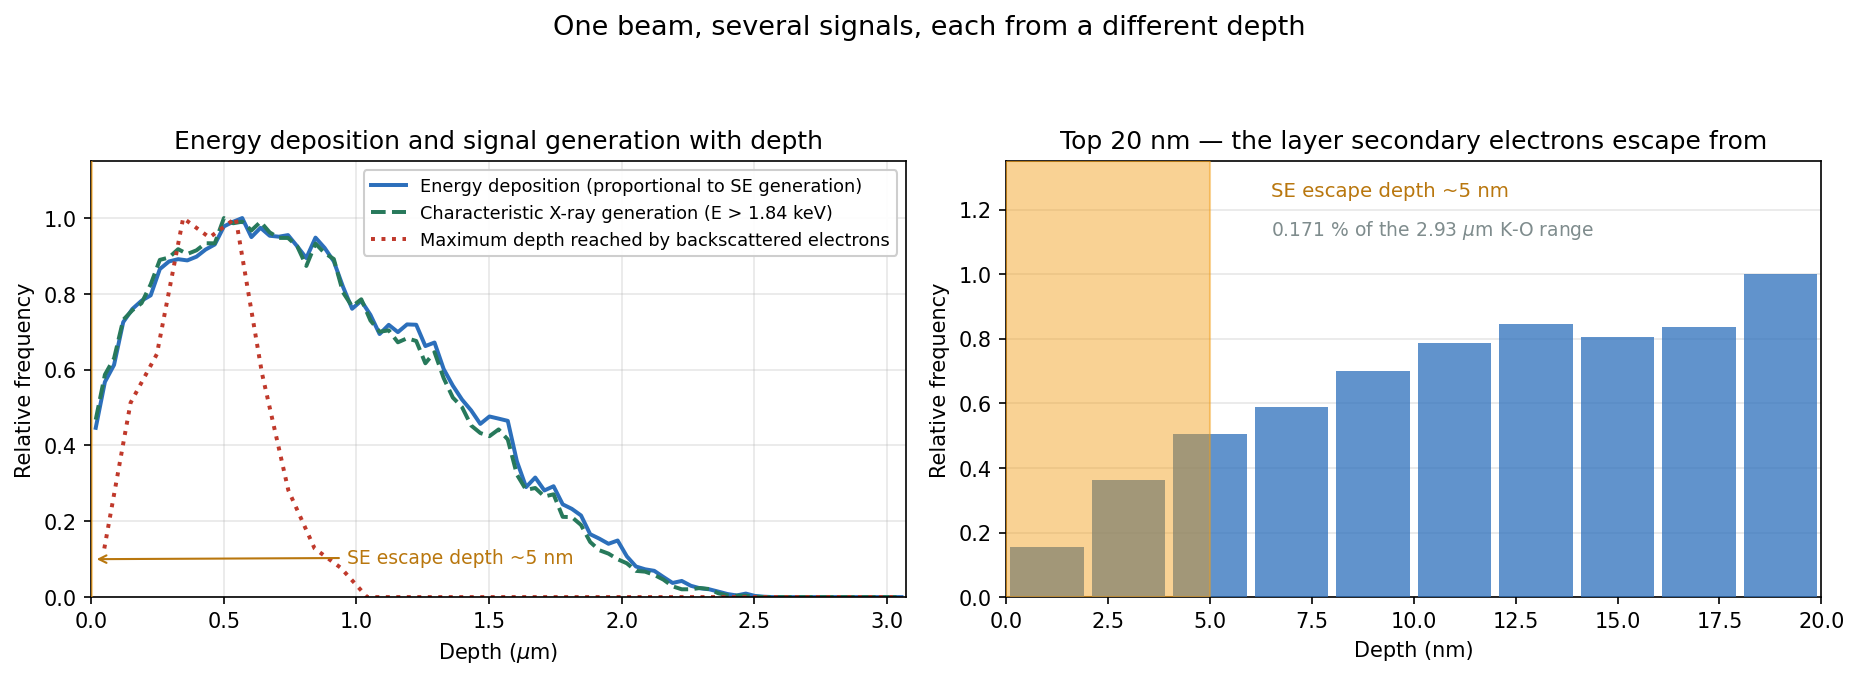
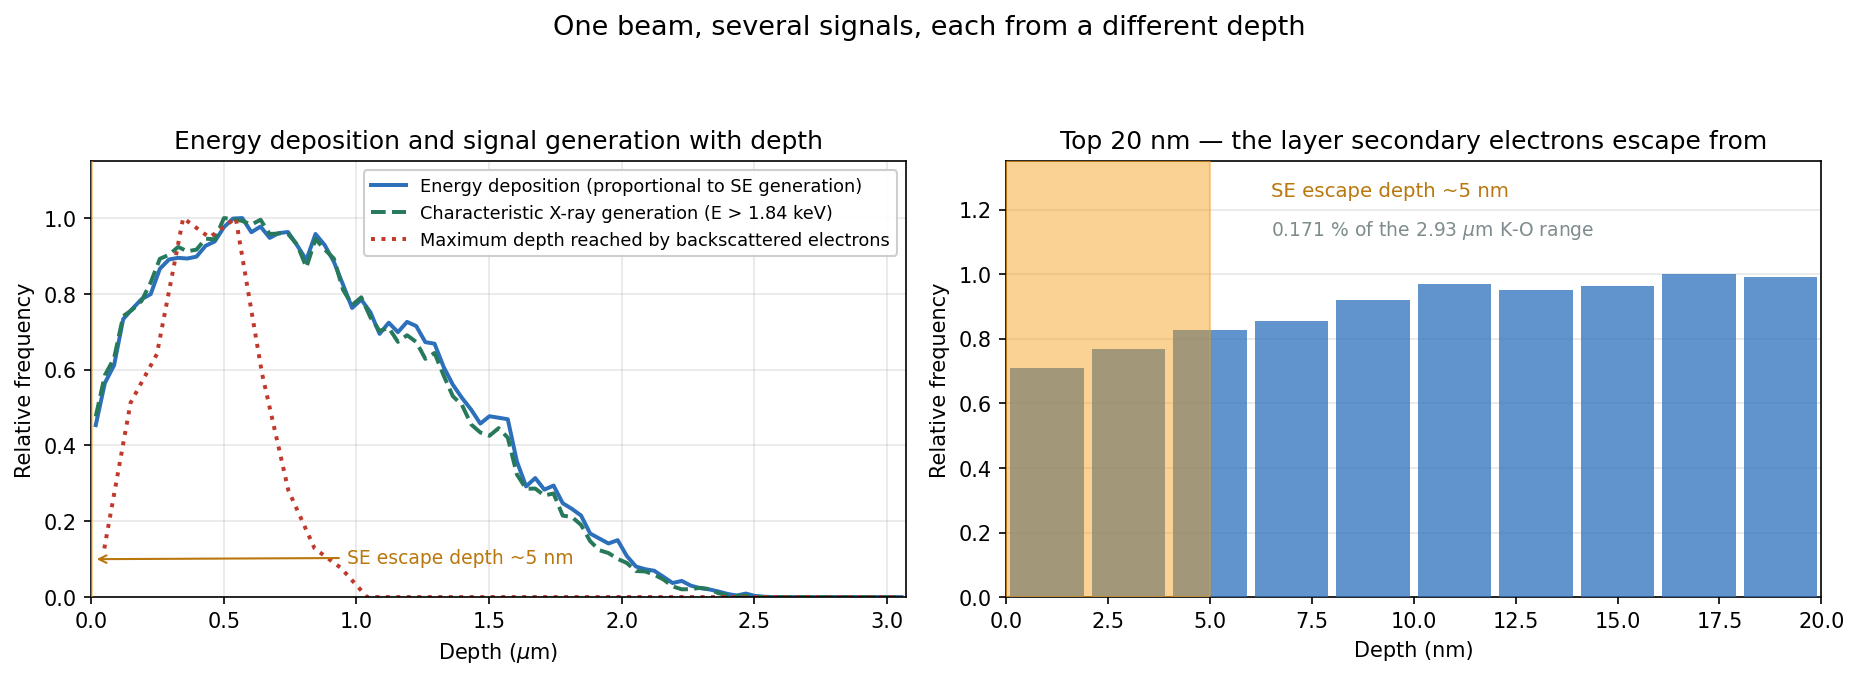
fix(post): electron-microscopy-beam-specimen-interaction — 단면적 스케일링·원자번호 효과·SE1/SE2·인용 등 7건 정정
1. 탄성 단면적 "Z²/E²에 비례": 큰 각 산란에만 맞는다. 차폐 때문에 총단면적은 대략 Z^{4/3}/E다
   (미분단면적 수치 적분 dlnσ/dlnZ 1.32–1.39, dlnσ/dlnE ≈ −1; Goldstein 3판 식 3.1, Joy 1991).
   W/Si 원자당 비는 약 10배, 90° 넘는 산란만 27.7배. 7편과 같은 핵심 문구로 고쳤다.
2. 원자번호를 올리면 부피가 작아진다: 크기 축소의 대부분은 밀도(8.3배) 때문이다. 텅스텐 밀도를 실리콘 값으로
   바꾼 대조 MC에서 깊이 비가 밀도비와 같았고, 같은 밀도에서 W는 16 % 얕을 뿐이다. 원자번호는 주로 모양을 바꾼다.
3. "좁은 기둥의 이차전자만 탈출": SE2도 탈출한다(Seiler 1984, Reimer 1984). SE1이 분해능, SE2는 배경으로 구분.
4. Carleton SERC 링크에는 탈출 깊이 수치가 없다. 주석을 "정성적 개요"로, 탈출 깊이 출처로 Seiler 1984를 더했다.
5. 원자핵은 전자보다 "수천 배"가 아니라 수만~수십만 배 무겁다(CODATA 2022: Si 핵 5.1×10⁴, W 3.35×10⁵배).
6. 고Z 어긋남의 원인을 "점전하"로 든 것 → 첫째 보른 근사와 차폐 경험 상수의 한계(PENELOPE-2018 3.1절).
7. 그림2: 한 걸음의 손실을 중점 한 곳에 쌓아 표면층이 비어 보였다(0.15). 구간 길이를 따라 나눠 쌓게 고쳤다(0.71).
   monte_carlo.py가 구간 양 끝 깊이를 돌려주고 generate_figures.py가 나눠 쌓는다. 본문 수치는 그대로다.

바뀐 그림: fig2-depth-distribution.png (한·영). 독립 검증자 3명.
근거: _references/electron-microscopy-beam-specimen-interaction/factcheck-20261004.md

diff --git a/_code/electron-microscopy-beam-specimen-interaction/generate_figures.py b/_code/electron-microscopy-beam-specimen-interaction/generate_figures.py
@@ -144,26 +144,49 @@ def fig1_interaction_volume(L, cache):
     return fig
 
 
+def _segment_histogram(z0, z1, w, edges):
+    """구간 [z0, z1] 에서 잃은 에너지 w 를 구간 길이를 따라 고르게 나눠 쌓는다.
+
+    중점 한 곳에 몰아 쌓으면 평균자유행로(15 keV Si 에서 약 20 nm)보다 얕은 층이
+    비어 보이는 인공물이 생긴다. 각 경계 e 아래에 놓인 몫 F(e) 를 누적해 차분한다.
+    """
+    lo, hi = np.minimum(z0, z1), np.maximum(z0, z1)
+    span = hi - lo
+    flat = span <= 0
+    safe = np.where(flat, 1.0, span)
+    cum = np.empty(len(edges))
+    for k, e in enumerate(edges):
+        frac = np.where(flat, (lo < e).astype(float), np.clip((e - lo) / safe, 0.0, 1.0))
+        cum[k] = np.sum(w * frac)
+    return np.diff(cum), np.asarray(edges)
+
+
 def fig2_depth_distribution(L, cache):
     res = cache["fig2"]
     r_ko_um = mc.kanaya_okayama_range(FIG2_MAT, FIG2_E0) * 1e4
 
-    dep_z = np.concatenate([r["depths"] for r in res]) * 1e4      # µm
+    z0 = np.concatenate([r["z_start"] for r in res]) * 1e4        # µm
+    z1 = np.concatenate([r["z_end"] for r in res]) * 1e4
     dep_w = np.concatenate([r["losses"] for r in res])
     ene = np.concatenate([r["energies"] for r in res])
-    xray = dep_z[ene > SI_K_EDGE]
-    xray_w = dep_w[ene > SI_K_EDGE]
+    xr = ene > SI_K_EDGE
     bse_depth = np.array([r["max_depth"] for r in res if r["backscattered"]]) * 1e4
 
     fig, (ax, ax2) = plt.subplots(1, 2, figsize=(12.5, 4.6))
 
     fine = np.linspace(0, r_ko_um * 1.05, 90)
     coarse = np.linspace(0, r_ko_um * 1.05, 32)     # 표본이 적은 후방산란용
-    for data, weights, color, key, ls, bins in [
-            (dep_z, dep_w, BLUE, "f2dep", "-", fine),
-            (xray, xray_w, GREEN, "f2xray", "--", fine),
-            (bse_depth, None, ACCENT, "f2bse", ":", coarse)]:
-        h, edges = np.histogram(data, bins=bins, weights=weights)
+    # 에너지 침착과 X선은 구간 길이를 따라 나눠 쌓고, 후방산란 최대 깊이는 점 자료다.
+    for kind, color, key, ls, bins in [
+            ("dep", BLUE, "f2dep", "-", fine),
+            ("xray", GREEN, "f2xray", "--", fine),
+            ("bse", ACCENT, "f2bse", ":", coarse)]:
+        if kind == "dep":
+            h, edges = _segment_histogram(z0, z1, dep_w, bins)
+        elif kind == "xray":
+            h, edges = _segment_histogram(z0[xr], z1[xr], dep_w[xr], bins)
+        else:
+            h, edges = np.histogram(bse_depth, bins=bins)
         if h.max() > 0:
             h = h / h.max()
         ax.plot(0.5 * (edges[1:] + edges[:-1]), h, color=color, lw=1.9, ls=ls,
@@ -185,7 +208,7 @@ def fig2_depth_distribution(L, cache):
 
     # 오른쪽: 표면 20 nm 확대
     bins2 = np.linspace(0, 20e-3, 11)
-    h, edges = np.histogram(dep_z, bins=bins2, weights=dep_w)
+    h, edges = _segment_histogram(z0, z1, dep_w, bins2)
     centers = 0.5 * (edges[1:] + edges[:-1]) * 1e3            # nm
     ax2.bar(centers, h / h.max(), width=(centers[1] - centers[0]) * 0.9,
             color=BLUE, alpha=0.75, zorder=3)

diff --git a/_code/electron-microscopy-beam-specimen-interaction/monte_carlo.py b/_code/electron-microscopy-beam-specimen-interaction/monte_carlo.py
@@ -108,6 +108,9 @@ def trace_electron(mat, e0_kev, rng, keep_path=True):
       path         (n,3) 궤적 [cm] — keep_path 가 False 면 None
       backscattered 표면으로 되돌아 나왔는가
       depths/losses 구간 중점의 깊이 [cm] 와 그 구간에서 잃은 에너지 [keV]
+      z_start/z_end 각 구간 양 끝의 깊이 [cm]. 손실을 구간 길이를 따라 나눠
+                   쌓을 때 쓴다 (중점 한 곳에 몰면 평균자유행로보다 얕은 층이
+                   비어 보인다)
       energies     각 구간에 들어갈 때의 전자 에너지 [keV]
       exit_depth   후방산란 직전 마지막 산란의 깊이 [cm], 아니면 None
       max_depth    도달한 최대 깊이 [cm]
@@ -117,6 +120,7 @@ def trace_electron(mat, e0_kev, rng, keep_path=True):
     e = float(e0_kev)
     path = [pos.copy()]
     depths, losses, energies = [], [], []
+    z_start, z_end = [], []
     backscattered = False
     last_pos = pos.copy()
 
@@ -133,9 +137,11 @@ def trace_electron(mat, e0_kev, rng, keep_path=True):
                 path.append(pos + direction * t)
             break
 
-        # 이동 구간에서 잃은 에너지를 구간 중점의 깊이에 쌓는다.
+        # 이동 구간에서 잃은 에너지와 구간의 깊이(중점, 양 끝)를 기록한다.
         loss = min(-stopping_power(mat, e) * step, e - E_MIN * 0.5)
         depths.append(0.5 * (pos[2] + new_pos[2]))
+        z_start.append(pos[2])
+        z_end.append(new_pos[2])
         losses.append(max(loss, 0.0))
         energies.append(e)
         e -= loss
@@ -159,6 +165,8 @@ def trace_electron(mat, e0_kev, rng, keep_path=True):
         "depths": np.array(depths),
         "losses": np.array(losses),
         "energies": np.array(energies),
+        "z_start": np.array(z_start),
+        "z_end": np.array(z_end),
         "exit_depth": float(last_pos[2]) if backscattered else None,
         "max_depth": float(np.max(all_z)) if len(all_z) else 0.0,
     }

diff --git a/_posts/2026-10-08-electron-microscopy-beam-specimen-interaction-en.md b/_posts/2026-10-08-electron-microscopy-beam-specimen-interaction-en.md
@@ -21,7 +21,7 @@ Yet scanning electron micrographs do resolve structures at the nanometre scale. 
 
 A specimen contains nuclei and orbital electrons. The incident electron interacts with both, but the outcomes differ.
 
-Collisions with a nucleus are elastic. A nucleus outweighs an electron by thousands, so the electron loses almost no energy and simply changes direction, much as a billiard ball rebounds off a cushion. This scattering spreads electrons sideways and, applied often enough, turns them around entirely.
+Collisions with a nucleus are elastic. A nucleus outweighs an electron by tens to hundreds of thousands of times (about 50,000 for silicon), so the electron loses almost no energy and simply changes direction, much as a billiard ball rebounds off a cushion. This scattering spreads electrons sideways and, applied often enough, turns them around entirely.
 
 Collisions with orbital electrons are inelastic. The masses match, so energy transfers readily while the direction barely changes. The transferred energy generates secondary electrons inside the specimen, and knocking out an inner-shell electron produces a characteristic X-ray as the vacancy fills.
 
@@ -35,7 +35,7 @@ $$ \sigma \;\propto\; \frac{Z^2}{E^2} \cdot \frac{1}{\alpha_s(1+\alpha_s)}, \qqu
 
 $Z$ is the atomic number and $E$ the electron energy in keV. The screening parameter $\alpha_s$ measures how far orbital electrons shield the nuclear charge. Nearly every conclusion in this post sits in the first two factors.
 
-The $Z^2$ in the numerator says heavier elements deflect far more often and far more sharply. Tungsten ($Z=74$) exceeds silicon ($Z=14$) by a factor of 28 in $Z^2$. The $E^2$ in the denominator says slower electrons deflect more readily, so lowering the accelerating voltage costs an electron its direction before it penetrates far.
+The $Z^2$ in the numerator says heavier elements deflect far more sharply. The cross section for large-angle scattering scales as $Z^2/E^2$, but because of screening the total cross section scales roughly as $Z^{4/3}/E$. For large-angle deflection alone, tungsten ($Z=74$) exceeds silicon ($Z=14$) by a factor of 28 in $Z^2$ (27.7 counting only deflections beyond 90°). But $\alpha_s$ itself carries $Z^{0.67}/E$, so in this energy range, where $\alpha_s \ll 1$, part of the leading factor cancels; per atom, tungsten scatters about ten times as often as silicon. The $E^2$ in the denominator says slower electrons deflect more readily, so lowering the accelerating voltage costs an electron its direction before it penetrates far.
 
 The cross section gives a mean free path. With $N$ atoms per unit volume,
 
@@ -73,7 +73,7 @@ The four panels display the two factors from section 2 directly.
 
 Raising the accelerating voltage from 5 kV to 30 kV (left to right) inflates the whole volume. In silicon the penetration depth grows from 0.47 µm to 9.31 µm, a factor of 20. Higher energy means a smaller cross section, less deflection, and more energy to spend before stopping.
 
-Raising the atomic number (top to bottom) shrinks the volume and reshapes it. At 30 kV silicon reaches 9.31 µm against 1.68 µm for tungsten, a fifth as far. The shape matters more. Silicon's volume is a teardrop that swells sideways below the surface, while tungsten's is closer to a hemisphere pressed against it. In silicon an electron travels some distance before losing its direction; in tungsten it deflects sharply on entry. That is the $Z^2$ at work.
+Raising the atomic number (top to bottom) shrinks the volume and reshapes it. At 30 kV silicon reaches 9.31 µm against 1.68 µm for tungsten, a fifth as far. Most of that difference, though, comes from density (2.33 against 19.25 g/cm³, a factor of 8.3). Density enters the mean free path and the stopping power alike and so shrinks every length as $1/\rho$; give tungsten silicon's density and its maximum depth is only 16 % shallower than silicon's. What atomic number itself changes is the shape more than the size. Silicon's volume is a teardrop that swells sideways below the surface, while tungsten's is closer to a hemisphere pressed against it. In silicon an electron travels some distance before losing its direction; in tungsten it deflects sharply on entry. That is the $Z^2$ at work.
 
 The dashed semicircle marks the Kanaya-Okayama penetration depth.
 
@@ -100,7 +100,7 @@ The orange band marks the escape depth of secondary electrons. Their energy is v
 
 One more signal is missing from Figure 2: the Auger electron. When an incident electron ejects an inner-shell electron, an outer-shell electron drops in to fill the vacancy, and the leftover energy sometimes kicks out another orbital electron instead of leaving as an X-ray. That ejected electron is the Auger electron, and its energy is element-specific, so it carries compositional information. Its escape depth, 1–2 nm, is shallower still than that of secondary electrons. Auger electron spectroscopy rests on exactly this, which is also why the slightest surface contamination buries the signal. Attacking the same class of problem with X-rays instead of electrons gives [XPS](/en/posts/xps-photoemission-binding-energy/).
 
-That resolves the opening contradiction. The interaction volume spans micrometres, but the information secondary electrons carry comes from a few nanometres of surface. Only secondary electrons generated in the narrow column directly beneath the entry point — before the beam has spread sideways — ever escape, so the resolution of an SE image approaches the beam diameter. An SEM shows topography at nanometre scale not by defeating the interaction volume but by viewing only a very thin shell of it.
+That resolves the opening contradiction. The interaction volume spans micrometres, but the information secondary electrons carry comes from a few nanometres of surface. Secondary electrons generated in the narrow column directly beneath the entry point, before the beam spreads sideways (SE1), give a resolution close to the beam diameter. Backscattered electrons leaving the surface also generate secondaries in the same shallow layer (SE2), but these are spread over the wide area the backscattered electrons exit from and form a background without resolution; in silicon SE2 amounts to roughly half of SE1. An SEM shows topography at nanometre scale not by defeating the interaction volume but by viewing only a very thin shell of it.
 
 ## 5. The backscatter coefficient and compositional contrast
 
@@ -115,13 +115,13 @@ The values rise monotonically from 0.06 for carbon ($Z=6$) to 0.54 for gold ($Z=
 
 This curve underwrites compositional contrast. Place two phases of differing atomic number side by side and the number of returning electrons differs, so a BSE detector renders the heavier one brighter. The slope is what makes a difference of one or two in atomic number detectable.
 
-Figure 3 also holds a discrepancy worth naming. At high atomic number the Monte Carlo points sit systematically above the empirical fit. Silicon agrees well, 0.168 against 0.164, but tungsten runs about 12 % high, 0.532 against 0.476. This is not statistical fluctuation but a limitation of the model. The screened Rutherford cross section treats the nucleus as a point charge and compresses orbital screening into a single constant, and the approximation degrades as atomic number grows. Accurate values require tabulated Mott cross sections from relativistic wave calculations.
+Figure 3 also holds a discrepancy worth naming. At high atomic number the Monte Carlo points sit systematically above the empirical fit. Silicon agrees well, 0.168 against 0.164, but tungsten runs about 12 % high, 0.532 against 0.476. This is not statistical fluctuation but a limitation of the model. The screened Rutherford cross section is a first Born approximation, which treats the nuclear charge as a weak perturbation, with orbital screening added as a single empirical constant, and the approximation degrades as the nuclear charge grows. Accurate values require tabulated Mott cross sections from relativistic wave calculations.
 
 Leaving the discrepancy visible seems the more honest choice. A Monte Carlo of this kind demonstrates trends, not measurements. It is enough to understand why the interaction volume takes the shape it does and which depth each signal comes from, but using it as a correction factor for quantitative analysis would mean replacing the cross section first.
 
 ## Summary and what comes next
 
-What happens to an electron inside a specimen splits two ways. Elastic scattering off nuclei changes direction; inelastic scattering off orbital electrons removes energy. Almost every property of the interaction volume follows from the single fact that the elastic cross section scales as $Z^2/E^2$. Raising the accelerating voltage enlarges the volume; raising the atomic number shrinks it and turns the teardrop into a hemisphere.
+What happens to an electron inside a specimen splits two ways. Elastic scattering off nuclei changes direction; inelastic scattering off orbital electrons removes energy. Almost every property of the interaction volume's shape follows from the fact that elastic scattering, large-angle scattering in particular, goes as $Z^2/E^2$. Raising the accelerating voltage enlarges the volume; elements of high atomic number are usually dense as well, which shrinks it, and the atomic number itself turns the teardrop into a hemisphere.
 
 That the volume spans micrometres while an SEM resolves nanometres comes down to escape depth. Characteristic X-rays emerge from nearly the whole volume, backscattered electrons from the upper third, secondary electrons from within 5 nm of the surface, and Auger electrons from a shallower 1–2 nm. The 5 nm for secondary electrons is 0.171 % of the penetration depth. The same beam striking the same point is read at depths differing by three orders of magnitude depending on which detector receives it.
 
@@ -134,4 +134,5 @@ The next post takes up those detectors. It builds up how scanning forms an image
 - D. C. Joy and S. Luo, "An empirical stopping power relationship for low-energy electrons," *Scanning*, vol. 11, pp. 176–180, 1989 (low-energy Bethe modification).
 - K. Kanaya and S. Okayama, "Penetration and energy-loss theory of electrons in solid targets," *Journal of Physics D*, vol. 5, pp. 43–58, 1972 (penetration depth fit).
 - L. Reimer, *Scanning Electron Microscopy: Physics of Image Formation and Microanalysis*, 2nd ed., Springer, 1998, ch. 3–4 (scattering theory and signal generation depth).
-- [Scanning Electron Microscopy, Carleton SERC](https://serc.carleton.edu/research_education/geochemsheets/techniques/SEM.html) (overview of escape depths by signal).
+- H. Seiler, "Secondary electron emission," in *Electron Beam Interactions with Solids*, SEM Inc., 1984, pp. 33–42 (50 eV secondary-electron convention, escape depth T ≈ 5λ).
+- [Scanning Electron Microscopy, Carleton SERC](https://serc.carleton.edu/research_education/geochemsheets/techniques/SEM.html) (qualitative overview of SEM signals).
